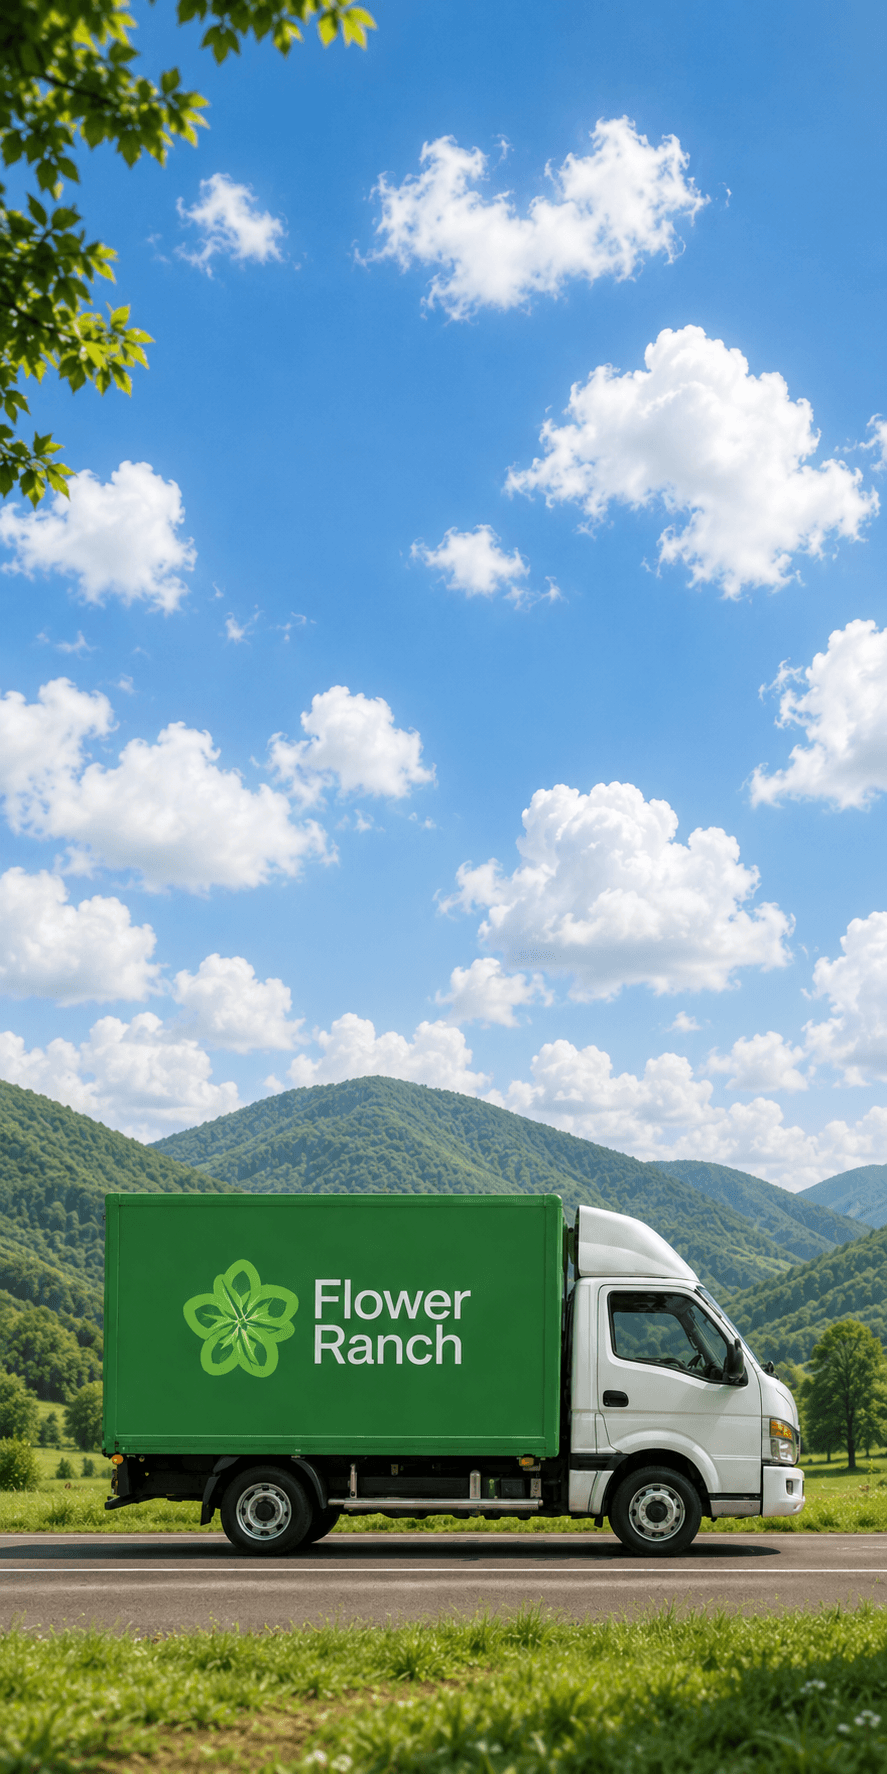
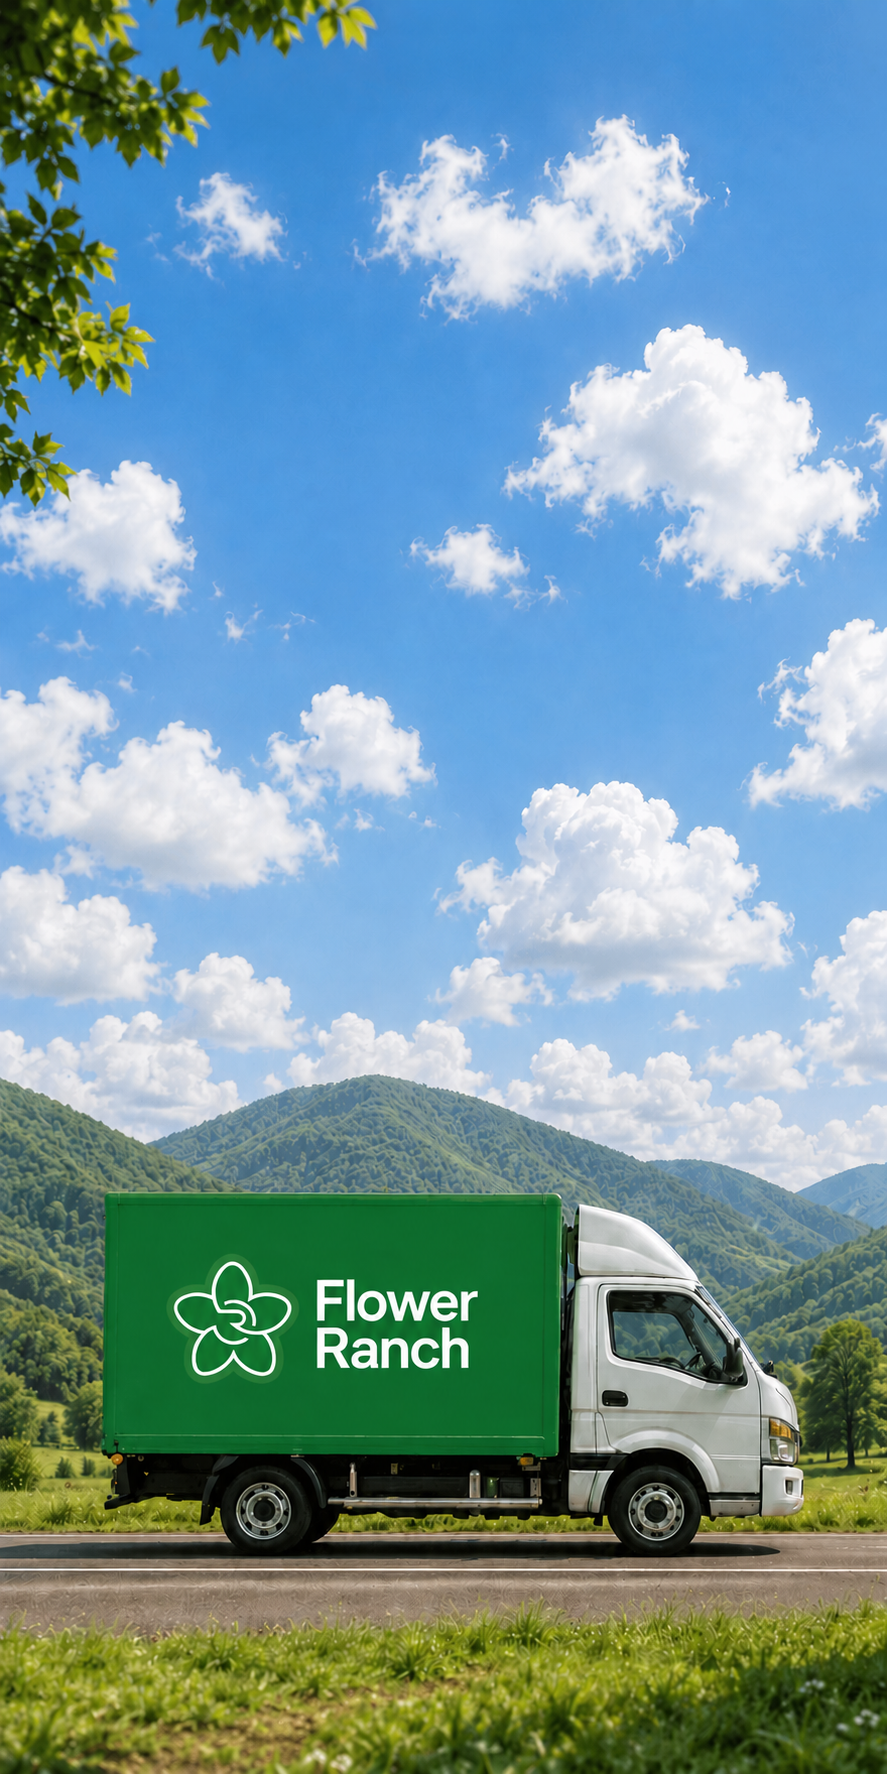
content: swap step1 + step4 photos; refocus step1 framing to 58%

diff --git a/src/components/store/roadmap-steps.tsx b/src/components/store/roadmap-steps.tsx
@@ -7,7 +7,7 @@ import { iconFor } from "@/lib/icon-map";
 // Per-step photo focus (object-position) — the subjects sit at different
 // heights in each shot (truck/fruit low in the portrait frames, harvest
 // centred in the landscape one), so each gets its own crop anchor.
-const STEP_FOCUS = ["50% 82%", "50% 50%", "50% 66%", "50% 80%", "50% 72%"];
+const STEP_FOCUS = ["50% 58%", "50% 50%", "50% 66%", "50% 80%", "50% 72%"];
 
 /**
  * The 5-step "journey" — a horizontal row of cards (stacks on mobile). Each card